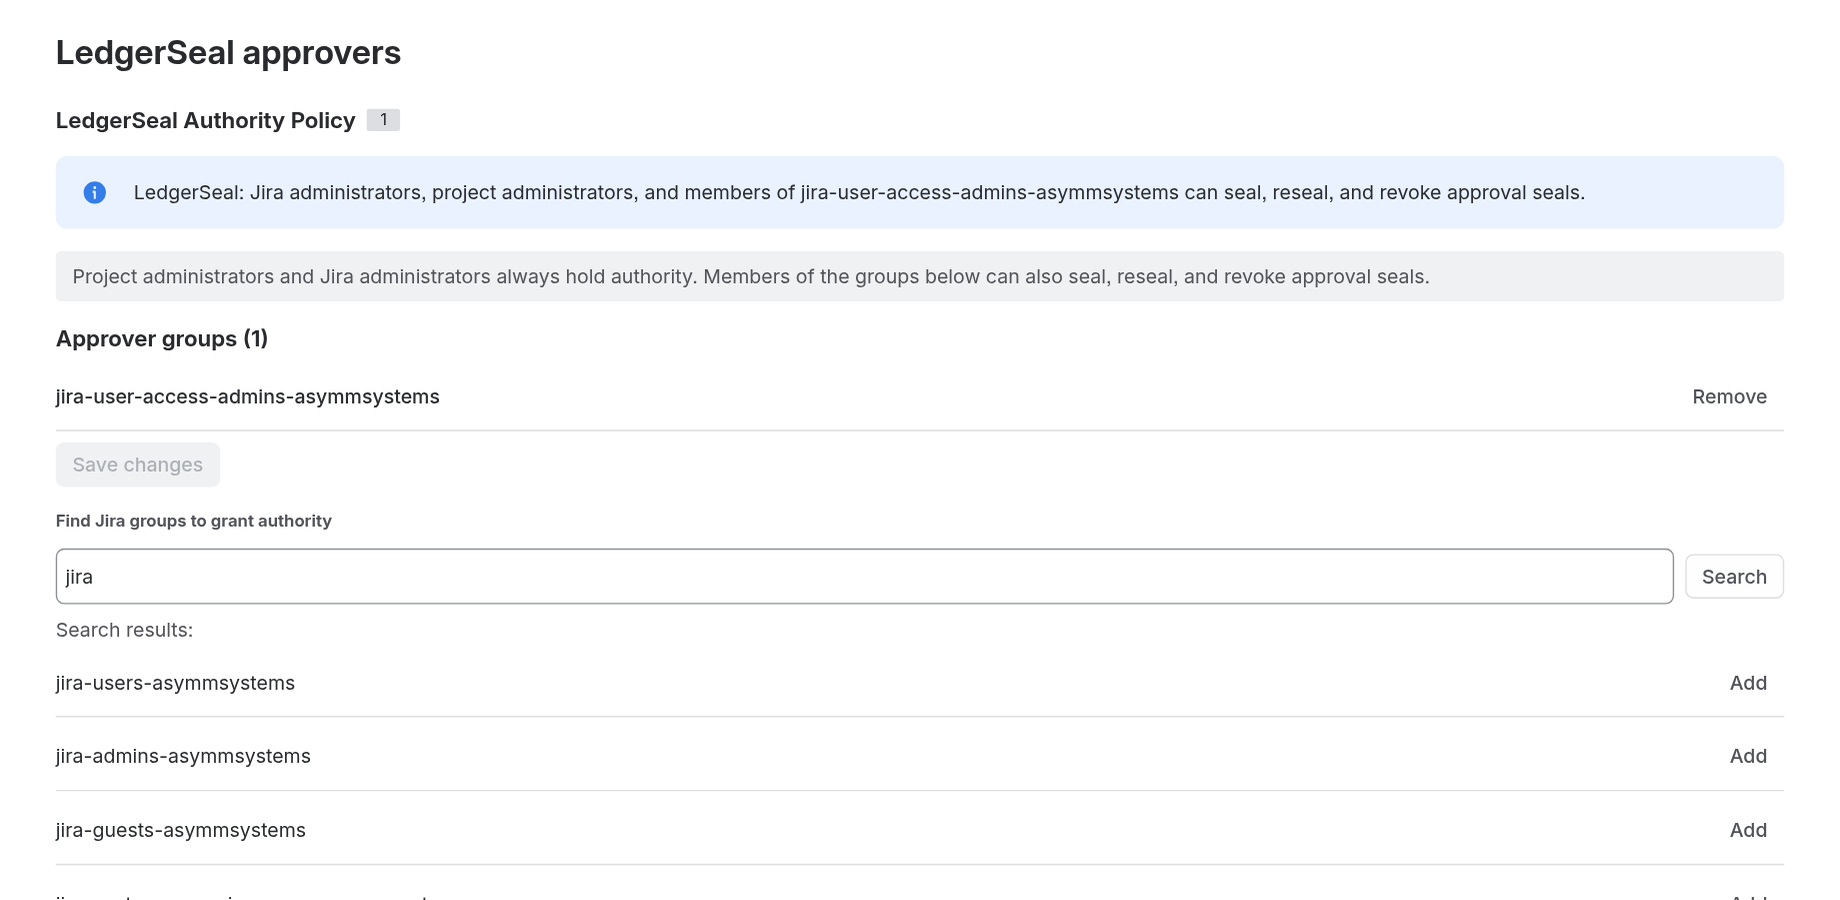
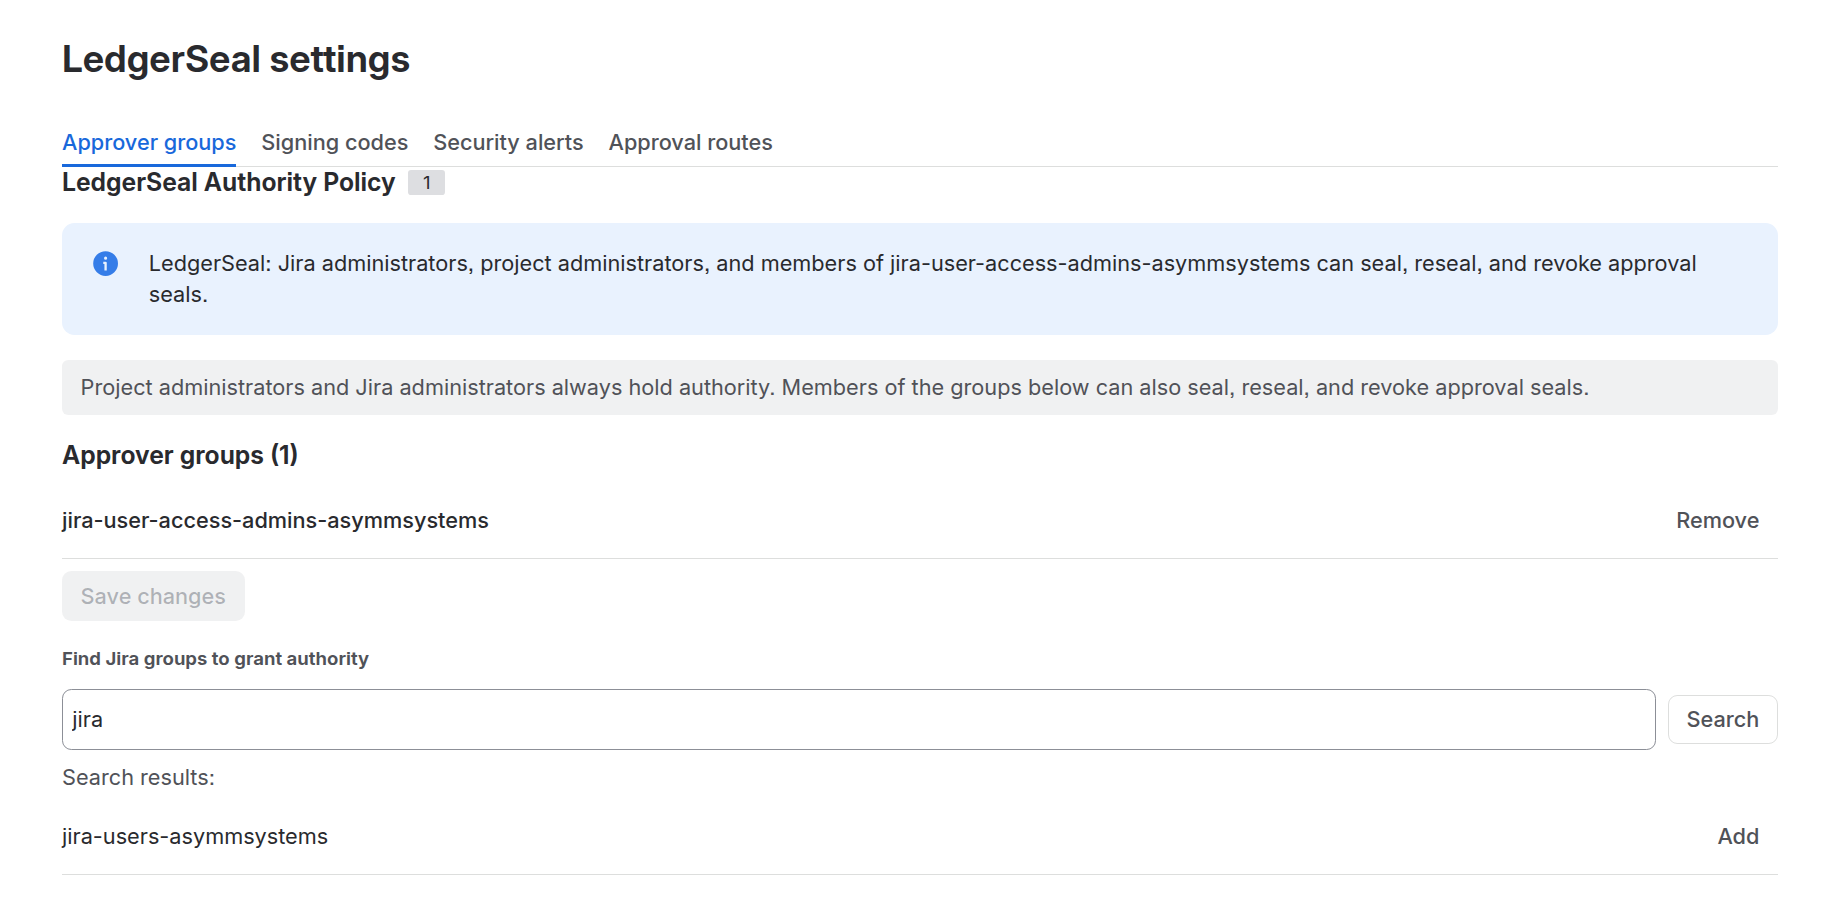
docs(ledgerseal): listing screenshot 4 shows the LedgerSeal settings page
Screenshot 4 of the LedgerSeal listing is a new capture of the
LedgerSeal settings admin page with its four tabs (Approver groups,
Signing codes, Security alerts, Approval routes), open on Approver
groups with a group search. 1840 x 900, development site, test data,
no Jira header and no DEV badge. The portal copy in site/public is the
same file, and the listing caption names the page and its tabs.

Refs: TASK-00002, TASK-00007

diff --git a/docs/marketplace/ledgerseal-listing.md b/docs/marketplace/ledgerseal-listing.md
@@ -103,12 +103,12 @@ Sources of the banner and highlights: `docs/marketplace/assets/ledgerseal/media-
 
 ## Screenshot Gallery Manifest (1840 x 900)
 
-Real captures of LedgerSeal 4.1.0 on the development site (project PAY "Payments Platform"; 03 in project LSP, the project with the LedgerSeal validator on a transition), 2026-11-06. Each image is cropped to the app (no Jira header, no DEV badge), 1840 x 900 px. Script: `apps/ledgerseal/test/live/shots.py`, `shot_admin.py`, `shot_blocked.py`.
+Real captures of LedgerSeal 4.1.0 on the development site (project PAY "Payments Platform"; 03 in project LSP, the project with the LedgerSeal validator on a transition), 2026-11-06. Each image is cropped to the app (no Jira header, no DEV badge), 1840 x 900 px. Script: `apps/ledgerseal/test/live/shots.py`, `shot_admin.py`, `shot_blocked.py`. 04 was retaken on 2026-11-18 in Chrome from the LedgerSeal settings page (the page has four tabs since 4.0.0; `shot_admin.py` still looks for the old "LedgerSeal approvers" heading).
 
 1. `01-sealed-panel.png` - **Sealed issue:** the green SEALED lozenge, "Approval seal: Sealed. No change detected since approval.", Revoke seal, and the expanded "Certificate & attestation details": signer, sign-off role, hash, covered and not covered fields.
 2. `02-tamper-detected.png` - **Changed after approval:** the red CHANGED lozenge and "Changed items" with Was (at approval), Now (current edit) and Changed by, for a summary edit and a new comment. The person who made the changes is told that another approver must approve them.
 3. `03-transition-blocked.png` - **Workflow gate:** Jira's "Transition failed" message from the Require Valid LedgerSeal validator, over the panel of the changed issue.
-4. `04-admin-approvers.png` - **Approver groups:** the LedgerSeal approvers admin page with the approver group list, Save changes, and a group search.
+4. `04-admin-approvers.png` - **LedgerSeal settings:** the admin page with four tabs (Approver groups, Signing codes, Security alerts, Approval routes), open on Approver groups: the approver group list, Save changes, and a group search.
 5. `05-seal-history.png` - **Seal history:** the seal details with the hash-chained history, naming who sealed.
 
 ---
